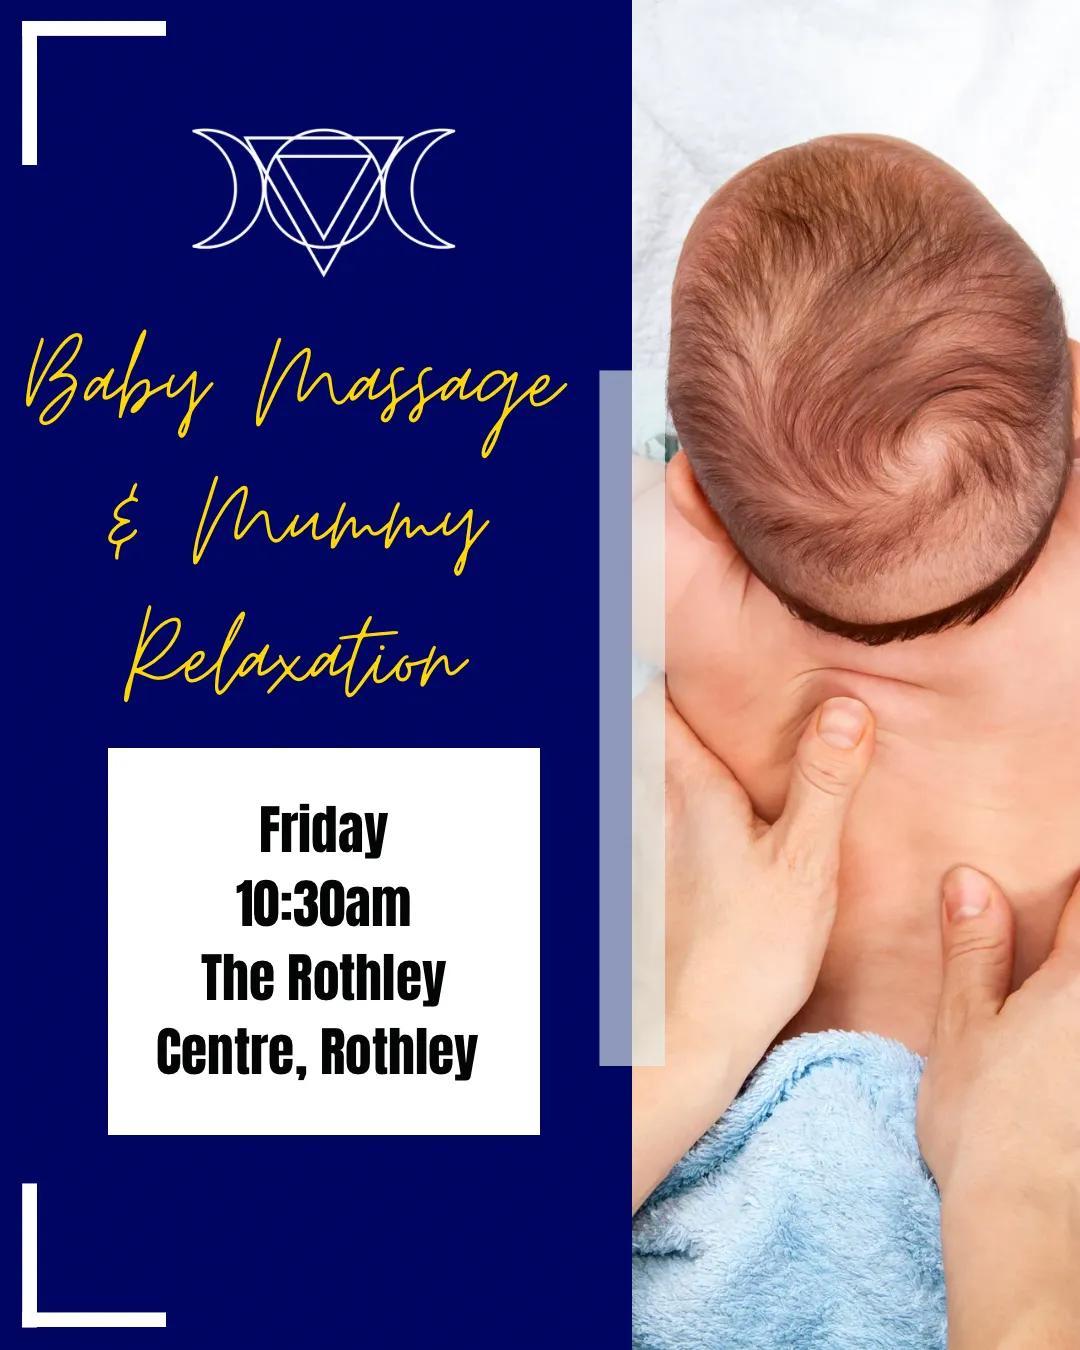
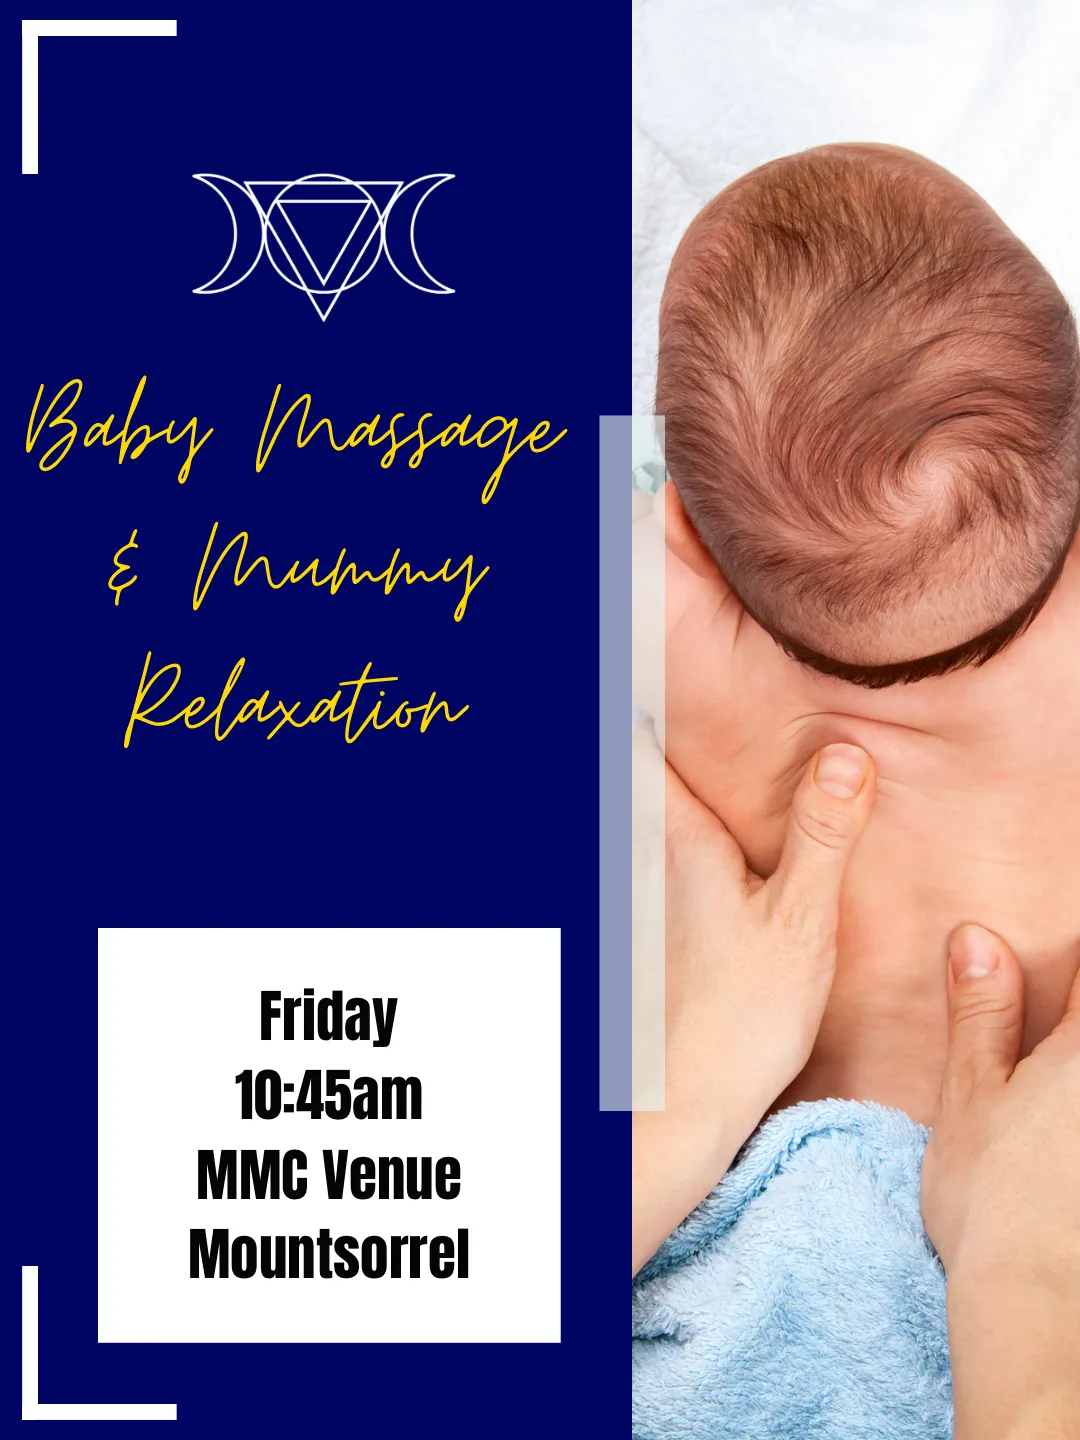
Use updated baby massage card for Mountsorrel, Friday 10:45am
Claude-Session: https://claude.ai/code/session_018NxwWcP4uB2dKjGJKm77zn

diff --git a/leicester/babymassage/babymassage.html b/leicester/babymassage/babymassage.html
@@ -125,7 +125,7 @@
         <article class="bm-booking-card">
             <div class="row align-items-center">
                 <div class="col-auto">
-                    <img src="../../images/baby_massage.webp" alt="Baby massage and mummy relaxation class with Eir &amp; Wild" width="1080" height="1350" loading="lazy">
+                    <img src="../../images/baby_massage.webp" alt="Baby Massage &amp; Mummy Relaxation, Friday 10:45am at MMC Venue, Mountsorrel" width="1080" height="1440" loading="lazy">
                 </div>
                 <div class="col p-3 p-md-4">
                     <h2>Baby Massage & Mummy Relaxation</h2>
